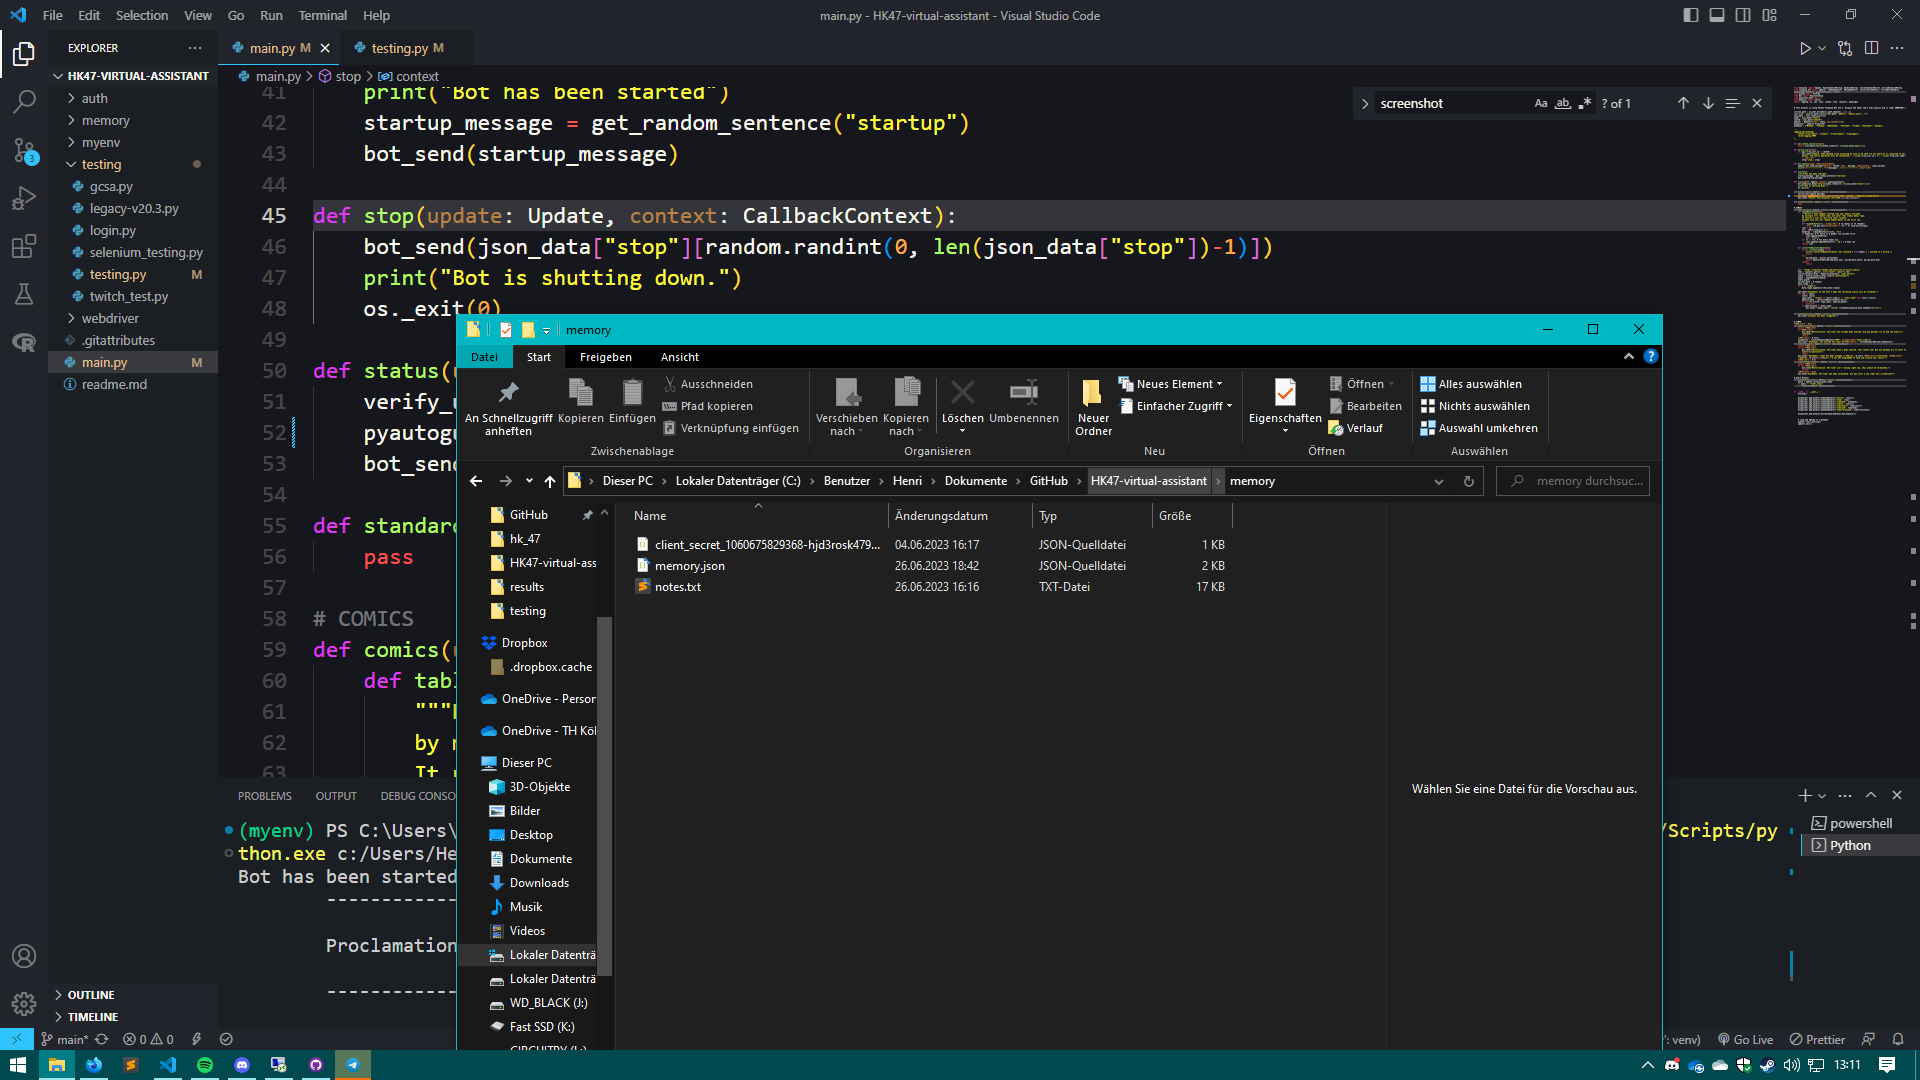
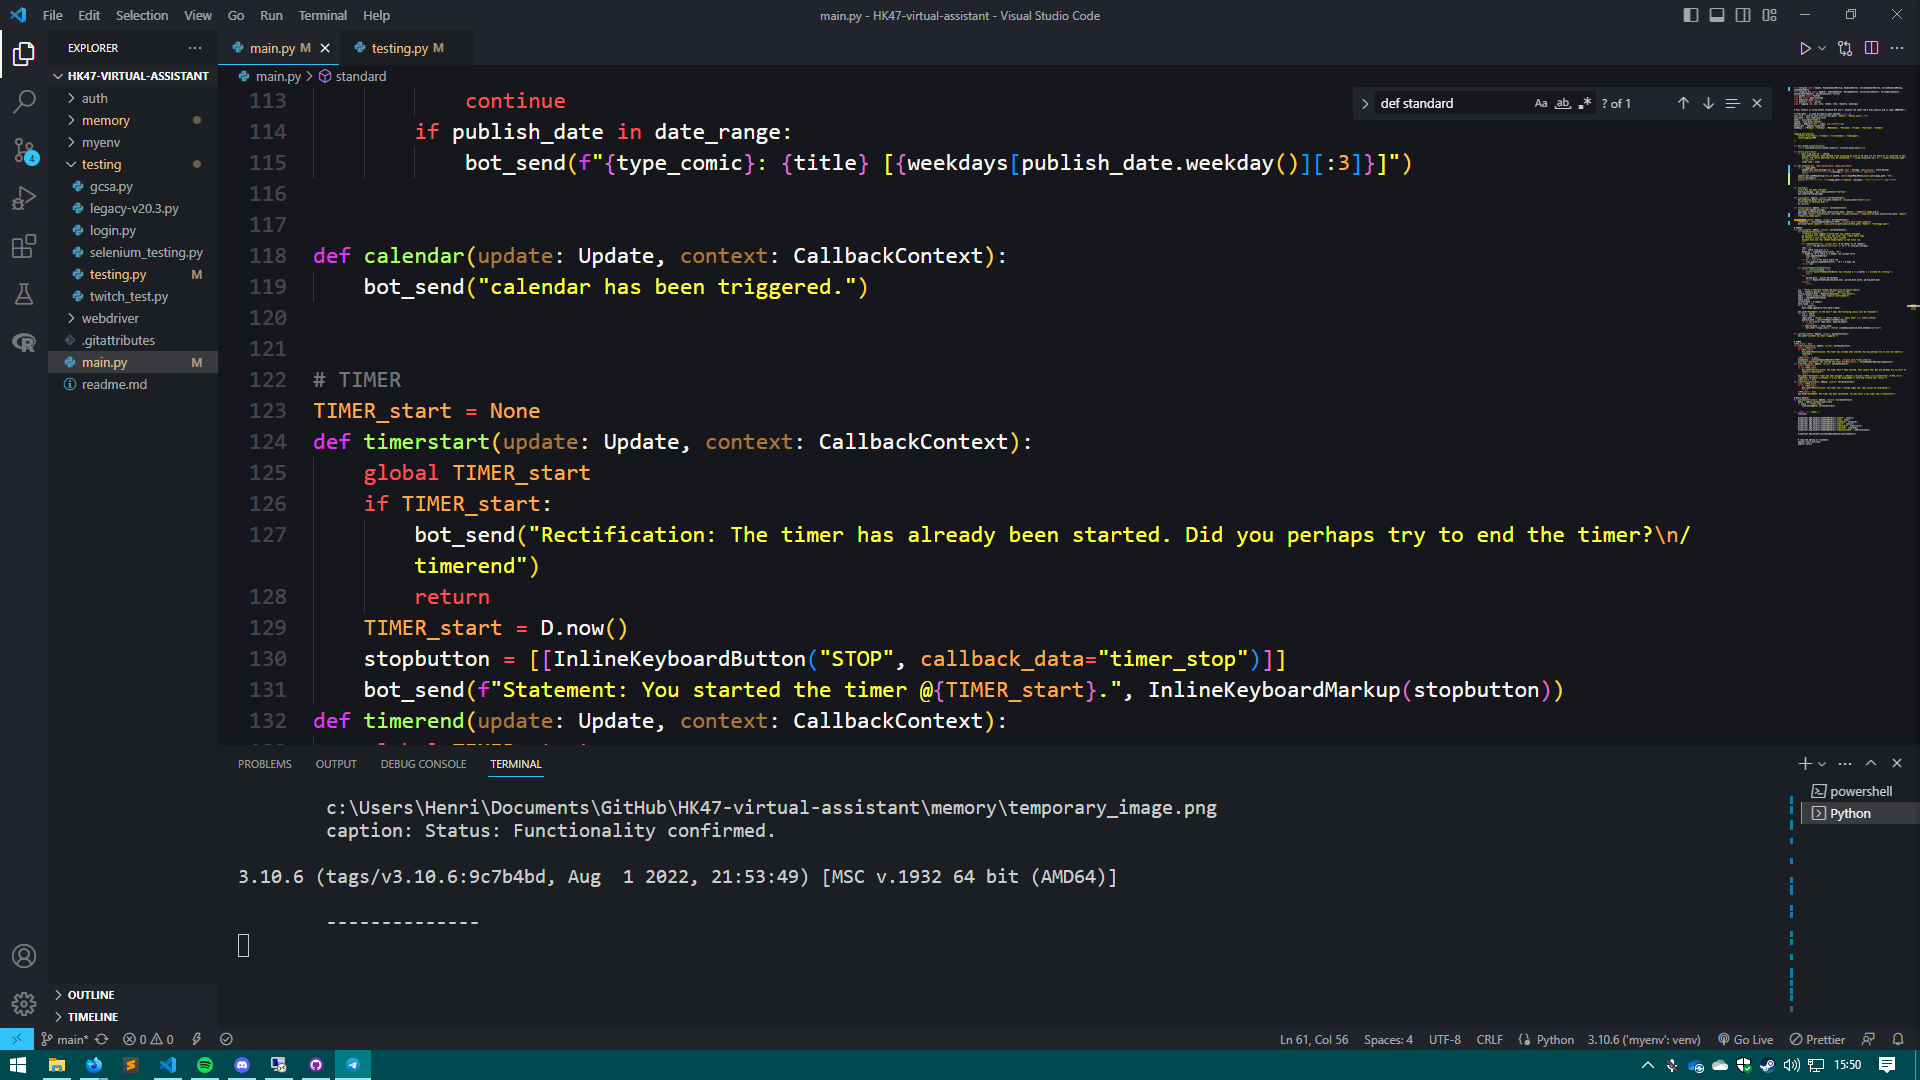
bot_send includes images + status functionality

diff --git a/main.py b/main.py
@@ -1,4 +1,4 @@
-from telegram import Update, ReplyKeyboardMarkup, KeyboardButton, InlineKeyboardButton, InlineKeyboardMarkup        
+from telegram import Update, ReplyKeyboardMarkup, KeyboardButton, InlineKeyboardButton, InlineKeyboardMarkup, InputMediaPhoto     
 from telegram.ext import Updater, CommandHandler, MessageHandler, ConversationHandler, InlineQueryHandler, CallbackQueryHandler, CallbackContext, Filters
 from pytube import YouTube
 from bs4 import BeautifulSoup
@@ -33,9 +33,15 @@ def verify_user(input):
         bot_send("Anomaly: Some meatbag tried accessing me with an ID that I'm not aware of is connected to you, master. The entire operation will be terminated.", f"{input.from_user.id = }", f"{input.from_user.name = }", sep="\n")
         stop('stop', stop)
 
-def bot_send(message, reply_markup=None): 
-    updater.bot.send_message(chat_id = chatID, text = message, reply_markup = reply_markup)
-    print("\t--------------", f"\t{message}", "\t--------------", sep="\n\n")
+def bot_send(message, reply_markup=None, image_path=None): 
+    if not image_path:
+        updater.bot.send_message(chat_id = chatID, text = message, reply_markup = reply_markup)
+        print("\t--------------", f"\t{message}", "\t--------------", sep="\n\n")
+        return 
+    updater.bot.sendMediaGroup(chat_id=chatID, media=[InputMediaPhoto(media=open(image_path, "rb"), caption=message)])
+    print("\t--------------", f"\t{image_path}\n\tcaption: {message}", "\t--------------", sep="\n\n")
+
+
 
 def startup():
     print("Bot has been started")
@@ -50,10 +56,11 @@ def stop(update: Update, context: CallbackContext):
 def status(update: Update, context: CallbackContext):
     verify_user(update.message)
     pyautogui.screenshot(os.path.join(current_path, "memory", "temporary_image.png"))
-    bot_send(f"Status: Functionality confirmed.\n\n{sys.version}")
+    bot_send(f"Status: Functionality confirmed.\n\n{sys.version}", image_path=os.path.join(current_path, "memory", "temporary_image.png"))
     
 def standard(update: Update, context: CallbackContext):
-    pass
+    stopbutton = [[InlineKeyboardButton("STOP", callback_data="timer_stop")]]
+    bot_send("meine caption", image_path=os.path.join(current_path, "memory", "testimage.jpg"))
 
 # COMICS
 def comics(update: Update, context: CallbackContext):

diff --git a/testing/testing.py b/testing/testing.py
@@ -3,4 +3,4 @@ import pyautogui
 
 current_path = os.path.dirname(os.path.abspath(__file__))
 
-pyautogui.screenshot(os.path.join(current_path, "newnewscreenshot.png"))
+print(os.path.join(current_path, "memory", "testimage.jpg"))
